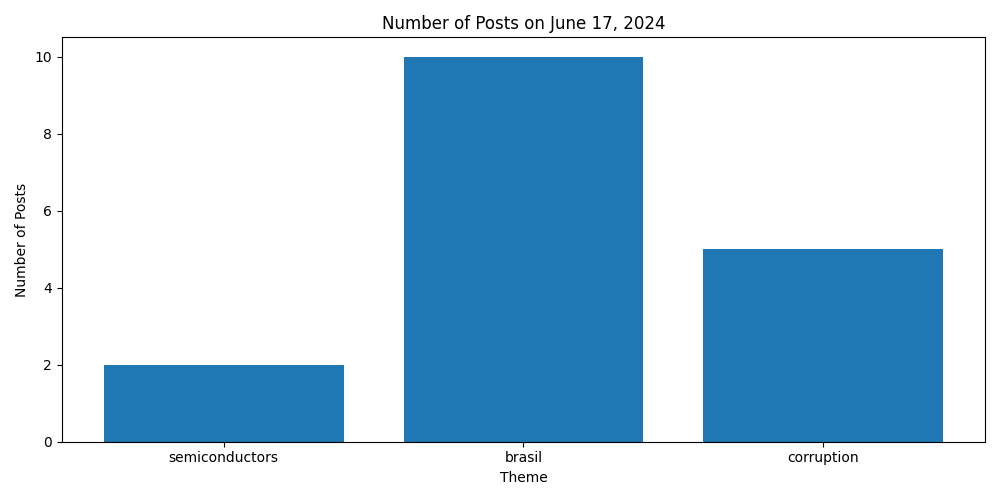
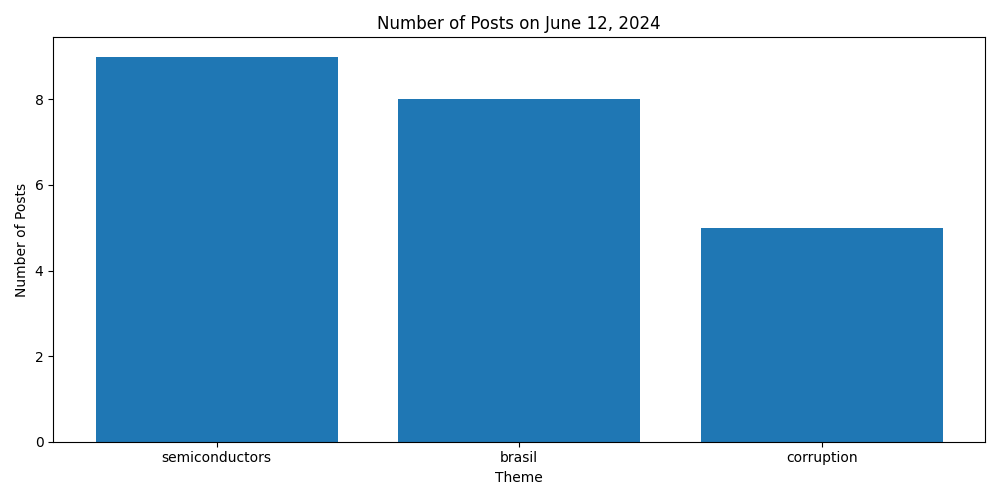
update readme

diff --git a/README.md b/README.md
@@ -1,115 +1,96 @@
 <<<<<<< HEAD
 # Desafio-Cosplam
- Aplicação Flask seguindo a arquitetura MVC para buscar e exibir notícias da API Bloomberg.
+Esta aplicação é um serviço web simples baseado em Flask, projetado para contar e visualizar o número de postagens de notícias publicadas em um dia específico para vários temas. Ela processa arquivos JSON contendo dados de notícias e gera um histograma dos resultados.
 
-## Módulo app_routes
-Este repositório contém uma API simples baseada em Flask para buscar artigos de notícias com base em certos parâmetros, como tema, data de início, data de término e número da página.
+### Tecnologias Utilizadas
+Python: Linguagem de programação principal utilizada.
+Flask: Framework leve para desenvolvimento de aplicações web WSGI.
+Matplotlib: Biblioteca de plotagem utilizada para gerar o histograma.
+Collections (Counter): Contêiner da biblioteca padrão do Python utilizado para contar a ocorrência de elementos.
+OS: Módulo Python que fornece funcionalidades dependentes do sistema operacional.
+JSON: Formato de intercâmbio de dados leve utilizado para manipulação de dados JSON.
 
-### Visão Geral
-A API possui um endpoint '/' que aceita requisições GET e retorna uma resposta JSON contendo artigos de notícias. Os dados são buscados usando o módulo service_news_service, que lida com a lógica de negócios para buscar e processar artigos de notícias.
+### Estrutura da Aplicação
 
-### Endpoint
-GET /
-Busca artigos de notícias com base nos parâmetros fornecidos.
+app = Flask(__name__): Inicializa a aplicação Flask.
+count_posts_by_day(json_data, target_day): Função que conta o número de postagens publicadas em um dia específico.
+/fetch: Endpoint principal da aplicação, que processa a requisição, conta as postagens de notícias pelos temas especificados, salva os resultados em um arquivo JSON e gera um histograma
 
-### Parâmetros:
+### Endpoints
+/fetch
+Descrição: Busca o número de postagens de notícias para os temas especificados em um determinado dia, salva os resultados em um arquivo JSON e gera um histograma.
 
-'theme' : O tema ou categoria das notícias a serem buscadas.
-'start_time' : A data de início para os artigos de notícias.
-'end_time' : A data de término para os artigos de notícias.
-'page' (opcional, padrão=1): O número da página para paginação.
+Método: GET
+
+Parâmetros:
+
+day: Dia para o qual contar as postagens de notícias (formato: YYYY-MM-DD).
+themes: Lista separada por vírgulas dos temas para contar as postagens de notícias.
+Resposta: Objeto JSON contendo a contagem de postagens de notícias para cada tema.
 
 ### Exemplo de Requisição:
- GET http://127.0.0.1:3000/fetch?theme=brasil, corruption, semiconductors&page=1&day=June 17, 2024
+curl "http://localhost:3000/fetch?day=2023-06-18&themes=brasil,corruption,semiconductors"
 
 ### Exemplo de Resposta:
- {
-    "artigos": [
-        {
-            "titulo": "Artigo Exemplo",
-            "descricao": "Esta é uma descrição de exemplo de um artigo.",
-            "publicado_em": "2023-01-15T12:00:00Z",
-            "url": "http://exemplo.com/artigo"
-        },
-        ...
-    ],
-    "pagina": 2,
-    "total_paginas": 5,
-    "total_resultados": 50
+{
+    "brasil": 5,
+    "corruption": 3,
+    "semiconductors": 7
 }
 
+## Como Executar a Aplicação
 
-## Módulo service_news_service
- O módulo service_news_service contém a função get_news_service, que é responsável por buscar e processar os artigos de notícias com base nos parâmetros fornecidos.
+1-Clonar o Repositório:
+git clone <url-do-repositorio>
+cd <diretorio-do-repositorio>
 
-### Exemplo de Uso:
- from service_news_service import service_news_service
+2-Instalar Dependências: 
 
-tema = "tecnologia"
-data_inicio = "2023-01-01"
-data_fim = "2023-01-31"
-pagina = 2
+Certifique-se de ter Python instalado e, em seguida, instale os pacotes necessários usando pip:
+pip install Flask matplotlib
 
-dados = service_news_service.get_news_service(tema, data_inicio, data_fim, pagina)
-print(dados)
+3-Executar a Aplicação:
+python histograma_generation.py
 
-##  Módulo storage_news_storage
- Este repositório contém um script Python para buscar artigos de notícias do Bloomberg com base em parâmetros específicos como tema, data de início, data de término e número da página.
+4-Acessar o Endpoint: Use uma ferramenta como Postman ou seu navegador web para enviar uma requisição GET para:
 
-### Visão Geral
- O função fetch_news usa a biblioteca requests para fazer uma requisição GET para a API de busca do Bloomberg. Os resultados são salvos em um arquivo JSON local e retornados como um dicionário Python.
+http://localhost:3000/fetch?day=2024-06-12&themes=brasil,corruption,semiconductors
 
-### Armazenamento da Resposta
- A resposta da API é salva em um arquivo chamado response.json no diretório atual. O conteúdo do arquivo é formatado com indentação para facilitar a leitura.
+### Estrutura de Diretórios
 
-##  Módulo storage_news_storage
- Este repositório contém um módulo Python que serve como uma camada de serviço para buscar artigos de notícias utilizando uma função de armazenamento (fetch_news). O módulo fornece uma interface simples para obter notícias com base em tema, data de início, data de término e número da página.
+news-fetcher/
+├── api_files/
+│   ├── brasil_1.json
+│   ├── corruption_1.json
+│   ├── semiconductors_1.json
+│   └── ... (outros arquivos JSON)
+├── output/
+│   ├── histogram.png
+│   └── news_data.json
+├── app.py
+└── README.md
 
-### Visão Geral
- A classe service_news_service fornece um método estático get_news_service que chama a função fetch_news do módulo storage_news_storage para buscar e retornar artigos de notícias.
+Descrição dos Diretórios e Arquivos:
 
-##  Módulo main 
- Este repositório contém um aplicativo Flask que serve uma API para buscar artigos de notícias com base em tema, data de início, data de término e número da página. O aplicativo utiliza módulos personalizados para lidar com a lógica de negócios e o armazenamento dos dados.
+*news-fetcher/*: Diretório raiz do projeto.
+*api_files/*: Diretório contendo os arquivos JSON com dados de notícias. Cada arquivo segue o formato <tema>_<número_da_página>.json.
+*brasil_1.json*: Arquivo JSON com notícias sobre o tema "brasil".
+*corruption_1.json*: Arquivo JSON com notícias sobre o tema "corruption".
+*semiconductors_1.json*: Arquivo JSON com notícias sobre o tema "semiconductors".
+*output/*: Diretório onde são salvos o arquivo JSON de saída e a imagem do histograma.
+*histogram.png*: Imagem PNG contendo o histograma do número de postagens por tema.
+*news_data.json*: Arquivo JSON contendo a contagem de postagens de notícias para cada tema.
+*histograma_generation.py*: Arquivo principal da aplicação Flask.
+*README.md*: Arquivo de documentação com informações sobre a aplicação, como instalar, executar e usar.
+### Arquivos de Saída
 
-### Visão Geral
- O aplicativo Flask é iniciado a partir do módulo 'app_runner.py', que importa a instância do aplicativo a partir do módulo 'app_routes.py'. O aplicativo está configurado para rodar na porta 3000.
+*news_data.json*: Arquivo JSON contendo a contagem de postagens de notícias para cada tema.
+*histogram.png*: Arquivo de imagem PNG contendo o histograma do número de postagens por tema.
 
+### Tratamento de Erros
+A aplicação verifica se o parâmetro day foi fornecido e retorna uma mensagem de erro se estiver ausente.
+Ela lida com erros de decodificação JSON e os registra no console.
+Ela garante que o diretório de saída exista antes de tentar salvar os arquivos.
 
-=======
-# Desafio-Cosplam 
-### Tem como finalidade verificar conhecimentos técnicos de desenvolvimento Back-end.
-
-## Funcionalidades
-### Busca de Notícias: Permite buscar notícias de um tema ou data específico em um intervalo de tempo.
-
-## Estrutura do Projeto
-### Estrutura do projeto, mostrando os principais arquivos e diretórios:
-
-projeto/
-├── app.py               # Arquivo principal da aplicação Flask
-├── service_news_service.py  # Módulo que contém o serviço para obter notícias
-├── storage_news_storage.py  # Módulo para armazenamento de notícias
-├── README.md            # Este arquivo README
-└── ...
-
-## Tecnologias Utilizadas
-
-### Linguagem de Programação
-
-**Python**
-
-### Ferramentas de Desenvolvimento
-
- **Postman**: Utilizado para testar as requisições HTTP.
- 
- **Flask**: Framework web utilizado para criar a aplicação.
-
-## Exemplo de Uso
-### Execute o arquivo app.py:
-  python app.py
-  Acesse http://127.0.0.1:3000 no seu navegador para buscar notícias.
-### Execute no Postman o caminho:
-  GET/page=1&theme=sports&start_time=2001-06-11&end_time=2002-06-12
->>>>>>> 59a0048b20a1be9b02cc059952827527a22bc899
 
 
